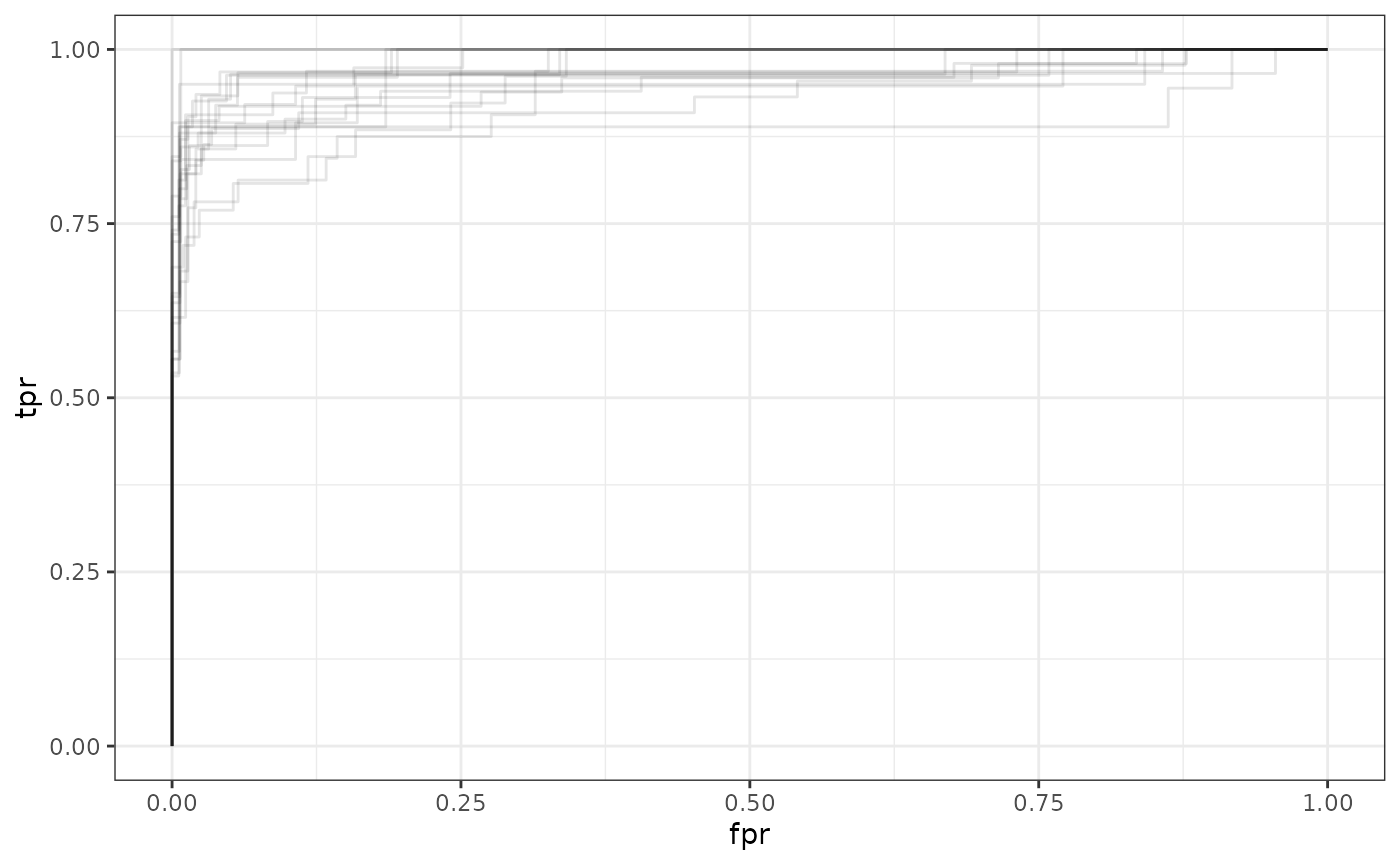
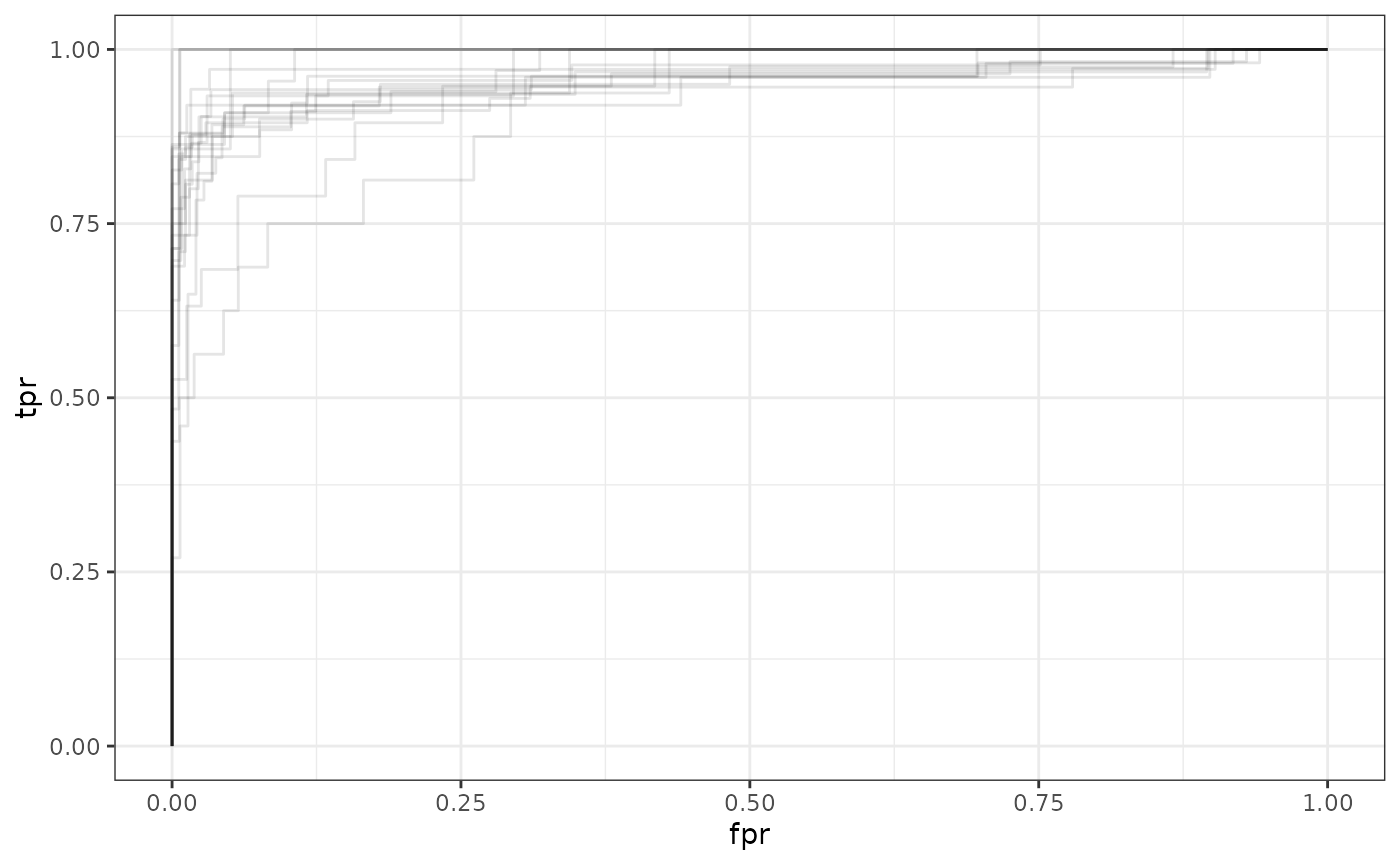
Deploying to gh-pages from @ valeriehan6/scoreLR@a9e760339ce7ee1c14383438b01688fdb50e8f58 🚀

Changed region(s): [[0.1229, 0.0312, 0.9214, 0.4994]]

diff --git a/articles/scoreLR.html b/articles/scoreLR.html
@@ -360,45 +360,45 @@ all four methods. We display this below.</p>
 <span><span class="fu"><a href="https://rdrr.io/r/utils/str.html" class="external-link">str</a></span><span class="op">(</span><span class="va">results</span><span class="op">)</span></span>
 <span><span class="co">#&gt; List of 4</span></span>
 <span><span class="co">#&gt;  $ IgnoreDependence    :List of 5</span></span>
-<span><span class="co">#&gt;   ..$ KM_SLR    :'data.frame':   56 obs. of  1 variable:</span></span>
-<span><span class="co">#&gt;   .. ..$ SLR: num [1:56] 7.36e+96 Inf Inf Inf Inf ...</span></span>
-<span><span class="co">#&gt;   ..$ KNM_SLR   :'data.frame':   159 obs. of  1 variable:</span></span>
-<span><span class="co">#&gt;   .. ..$ SLR: num [1:159] 0.001692 0.00044 0.00211 0.000997 Inf ...</span></span>
-<span><span class="co">#&gt;   ..$ threshold : num 0.0198</span></span>
+<span><span class="co">#&gt;   ..$ KM_SLR    :'data.frame':   47 obs. of  1 variable:</span></span>
+<span><span class="co">#&gt;   .. ..$ SLR: num [1:47] Inf 8.36e+72 4.02e+159 Inf Inf ...</span></span>
+<span><span class="co">#&gt;   ..$ KNM_SLR   :'data.frame':   172 obs. of  1 variable:</span></span>
+<span><span class="co">#&gt;   .. ..$ SLR: num [1:172] 0.004077 0.001102 0.000468 0.000477 Inf ...</span></span>
+<span><span class="co">#&gt;   ..$ threshold : num 0.0222</span></span>
 <span><span class="co">#&gt;   ..$ new_SLR   : logi NA</span></span>
-<span><span class="co">#&gt;   ..$ ROC_values:'data.frame':   177 obs. of  2 variables:</span></span>
-<span><span class="co">#&gt;   .. ..$ tpr: num [1:177] 0 0.0312 0.0625 0.0938 0.125 ...</span></span>
-<span><span class="co">#&gt;   .. ..$ fpr: num [1:177] 0 0 0 0 0 0 0 0 0 0 ...</span></span>
+<span><span class="co">#&gt;   ..$ ROC_values:'data.frame':   180 obs. of  2 variables:</span></span>
+<span><span class="co">#&gt;   .. ..$ tpr: num [1:180] 0 0.0476 0.0952 0.1429 0.1905 ...</span></span>
+<span><span class="co">#&gt;   .. ..$ fpr: num [1:180] 0 0 0 0 0 0 0 0 0 0 ...</span></span>
 <span><span class="co">#&gt;  $ StrictIndependentSet:List of 5</span></span>
-<span><span class="co">#&gt;   ..$ KM_SLR    :'data.frame':   56 obs. of  1 variable:</span></span>
-<span><span class="co">#&gt;   .. ..$ SLR: num [1:56] Inf Inf Inf Inf Inf ...</span></span>
-<span><span class="co">#&gt;   ..$ KNM_SLR   :'data.frame':   159 obs. of  1 variable:</span></span>
-<span><span class="co">#&gt;   .. ..$ SLR: num [1:159] 3.80e-03 2.50e-09 1.07e-03 1.94e-04 Inf ...</span></span>
-<span><span class="co">#&gt;   ..$ threshold : num 0.0146</span></span>
+<span><span class="co">#&gt;   ..$ KM_SLR    :'data.frame':   47 obs. of  1 variable:</span></span>
+<span><span class="co">#&gt;   .. ..$ SLR: num [1:47] 3.49e+24 1.05e+05 7.70e+06 2.39e+303 Inf ...</span></span>
+<span><span class="co">#&gt;   ..$ KNM_SLR   :'data.frame':   172 obs. of  1 variable:</span></span>
+<span><span class="co">#&gt;   .. ..$ SLR: num [1:172] 2.38e-02 2.70e-02 5.30e-03 5.86e-03 5.58e+32 ...</span></span>
+<span><span class="co">#&gt;   ..$ threshold : num 0.0769</span></span>
 <span><span class="co">#&gt;   ..$ new_SLR   : logi NA</span></span>
-<span><span class="co">#&gt;   ..$ ROC_values:'data.frame':   151 obs. of  2 variables:</span></span>
-<span><span class="co">#&gt;   .. ..$ tpr: num [1:151] 0 0.167 0.333 0.5 0.5 ...</span></span>
-<span><span class="co">#&gt;   .. ..$ fpr: num [1:151] 0 0 0 0 0.00633 ...</span></span>
+<span><span class="co">#&gt;   ..$ ROC_values:'data.frame':   206 obs. of  2 variables:</span></span>
+<span><span class="co">#&gt;   .. ..$ tpr: num [1:206] 0 0.0217 0.0435 0.0652 0.087 ...</span></span>
+<span><span class="co">#&gt;   .. ..$ fpr: num [1:206] 0 0 0 0 0 0 0 0 0 0 ...</span></span>
 <span><span class="co">#&gt;  $ AverageFeatures     :List of 5</span></span>
-<span><span class="co">#&gt;   ..$ KM_SLR    :'data.frame':   10 obs. of  1 variable:</span></span>
-<span><span class="co">#&gt;   .. ..$ SLR: num [1:10] Inf Inf Inf 6.47e+199 Inf ...</span></span>
+<span><span class="co">#&gt;   ..$ KM_SLR    :'data.frame':   8 obs. of  1 variable:</span></span>
+<span><span class="co">#&gt;   .. ..$ SLR: num [1:8] Inf Inf 4.61e+163 2.12e+17 1.46e+60 ...</span></span>
 <span><span class="co">#&gt;   ..$ KNM_SLR   :'data.frame':   14 obs. of  1 variable:</span></span>
-<span><span class="co">#&gt;   .. ..$ SLR: num [1:14] 3.11e-03 6.84e-03 3.85e-04 7.08e-09 3.06e-02 ...</span></span>
-<span><span class="co">#&gt;   ..$ threshold : num 0.781</span></span>
+<span><span class="co">#&gt;   .. ..$ SLR: num [1:14] 0.00393 0.004522 0.000429 0.023952 3.765248 ...</span></span>
+<span><span class="co">#&gt;   ..$ threshold : num 0.152</span></span>
 <span><span class="co">#&gt;   ..$ new_SLR   : logi NA</span></span>
-<span><span class="co">#&gt;   ..$ ROC_values:'data.frame':   16 obs. of  2 variables:</span></span>
-<span><span class="co">#&gt;   .. ..$ tpr: num [1:16] 0 1 1 1 1 1 1 1 1 1 ...</span></span>
-<span><span class="co">#&gt;   .. ..$ fpr: num [1:16] 0 0 0.0714 0.1429 0.2143 ...</span></span>
+<span><span class="co">#&gt;   ..$ ROC_values:'data.frame':   20 obs. of  2 variables:</span></span>
+<span><span class="co">#&gt;   .. ..$ tpr: num [1:20] 0 0.2 0.4 0.6 0.8 0.8 1 1 1 1 ...</span></span>
+<span><span class="co">#&gt;   .. ..$ fpr: num [1:20] 0 0 0 0 0 ...</span></span>
 <span><span class="co">#&gt;  $ MultipleKDE         :List of 5</span></span>
-<span><span class="co">#&gt;   ..$ KM_SLR    :'data.frame':   56 obs. of  1 variable:</span></span>
-<span><span class="co">#&gt;   .. ..$ SLR: num [1:56] 2.04e+08 7.14e+52 1.24e+30 Inf Inf ...</span></span>
-<span><span class="co">#&gt;   ..$ KNM_SLR   :'data.frame':   159 obs. of  1 variable:</span></span>
-<span><span class="co">#&gt;   .. ..$ SLR: num [1:159] 3.92e-03 8.84e-04 6.68e-03 2.95e-03 2.30e+103 ...</span></span>
-<span><span class="co">#&gt;   ..$ threshold : num 0.0295</span></span>
+<span><span class="co">#&gt;   ..$ KM_SLR    :'data.frame':   47 obs. of  1 variable:</span></span>
+<span><span class="co">#&gt;   .. ..$ SLR: num [1:47] 3.82e+26 1.92e+06 3.13e+07 Inf Inf ...</span></span>
+<span><span class="co">#&gt;   ..$ KNM_SLR   :'data.frame':   172 obs. of  1 variable:</span></span>
+<span><span class="co">#&gt;   .. ..$ SLR: num [1:172] 9.56e-03 3.42e-03 8.47e-04 8.92e-04 1.73e+35 ...</span></span>
+<span><span class="co">#&gt;   ..$ threshold : num 0.0333</span></span>
 <span><span class="co">#&gt;   ..$ new_SLR   : logi NA</span></span>
-<span><span class="co">#&gt;   ..$ ROC_values:'data.frame':   189 obs. of  2 variables:</span></span>
-<span><span class="co">#&gt;   .. ..$ tpr: num [1:189] 0 0.0233 0.0465 0.0698 0.093 ...</span></span>
-<span><span class="co">#&gt;   .. ..$ fpr: num [1:189] 0 0 0 0 0 ...</span></span></code></pre></div>
+<span><span class="co">#&gt;   ..$ ROC_values:'data.frame':   205 obs. of  2 variables:</span></span>
+<span><span class="co">#&gt;   .. ..$ tpr: num [1:205] 0 0.0222 0.0444 0.0667 0.0889 ...</span></span>
+<span><span class="co">#&gt;   .. ..$ fpr: num [1:205] 0 0 0 0 0 0 0 0 0 0 ...</span></span></code></pre></div>
 <p>The output gives you a list. Each element corresponds to the output
 of the corresponding method function.</p>
 <p>You can also choose to run the method itself after splitting the data
@@ -447,8 +447,7 @@ parameter in the <code>ggplot2</code> package. Increase
 <code>alpha</code> if the lines are too faint.</p>
 <div class="sourceCode" id="cb8"><pre class="downlit sourceCode r">
 <code class="sourceCode R"><span><span class="fu"><a href="../reference/plot_slr_roc.html">plot_slr_roc</a></span><span class="op">(</span><span class="va">shoedata</span>, p <span class="op">=</span> <span class="fl">0.75</span>, method <span class="op">=</span> <span class="st">"IgnoreDependence"</span>, </span>
-<span>             num_runs <span class="op">=</span> <span class="fl">20</span>, alpha <span class="op">=</span> <span class="fl">0.1</span><span class="op">)</span></span>
-<span><span class="co">#&gt; [1] "ROC_values not calculated12, 159"</span></span></code></pre></div>
+<span>             num_runs <span class="op">=</span> <span class="fl">20</span>, alpha <span class="op">=</span> <span class="fl">0.1</span><span class="op">)</span></span></code></pre></div>
 <p><img src="scoreLR_files/figure-html/unnamed-chunk-9-1.png" width="700"></p>
 <p>The method functions and <code>slr_results</code> can also estimate
 the SLR for data where the ground truth is unknown as long as training
@@ -461,9 +460,9 @@ data is provided.</p>
 <span><span class="va">res</span> <span class="op">&lt;-</span> <span class="fu"><a href="../reference/strict_indep_set.html">strict_indep_set</a></span><span class="op">(</span><span class="va">KM_train</span>, <span class="va">KM_test</span>, <span class="va">KNM_train</span>, <span class="va">KNM_test</span>, <span class="va">unknown</span><span class="op">)</span></span>
 <span></span>
 <span><span class="va">res</span><span class="op">$</span><span class="va">new_SLR</span></span>
-<span><span class="co">#&gt;            SLR</span></span>
-<span><span class="co">#&gt; 1 1.835610e-03</span></span>
-<span><span class="co">#&gt; 2 1.603555e+60</span></span></code></pre></div>
+<span><span class="co">#&gt;          SLR</span></span>
+<span><span class="co">#&gt; 1 0.02968769</span></span>
+<span><span class="co">#&gt; 2        Inf</span></span></code></pre></div>
 </div>
 </div>
 <div class="section level2">
